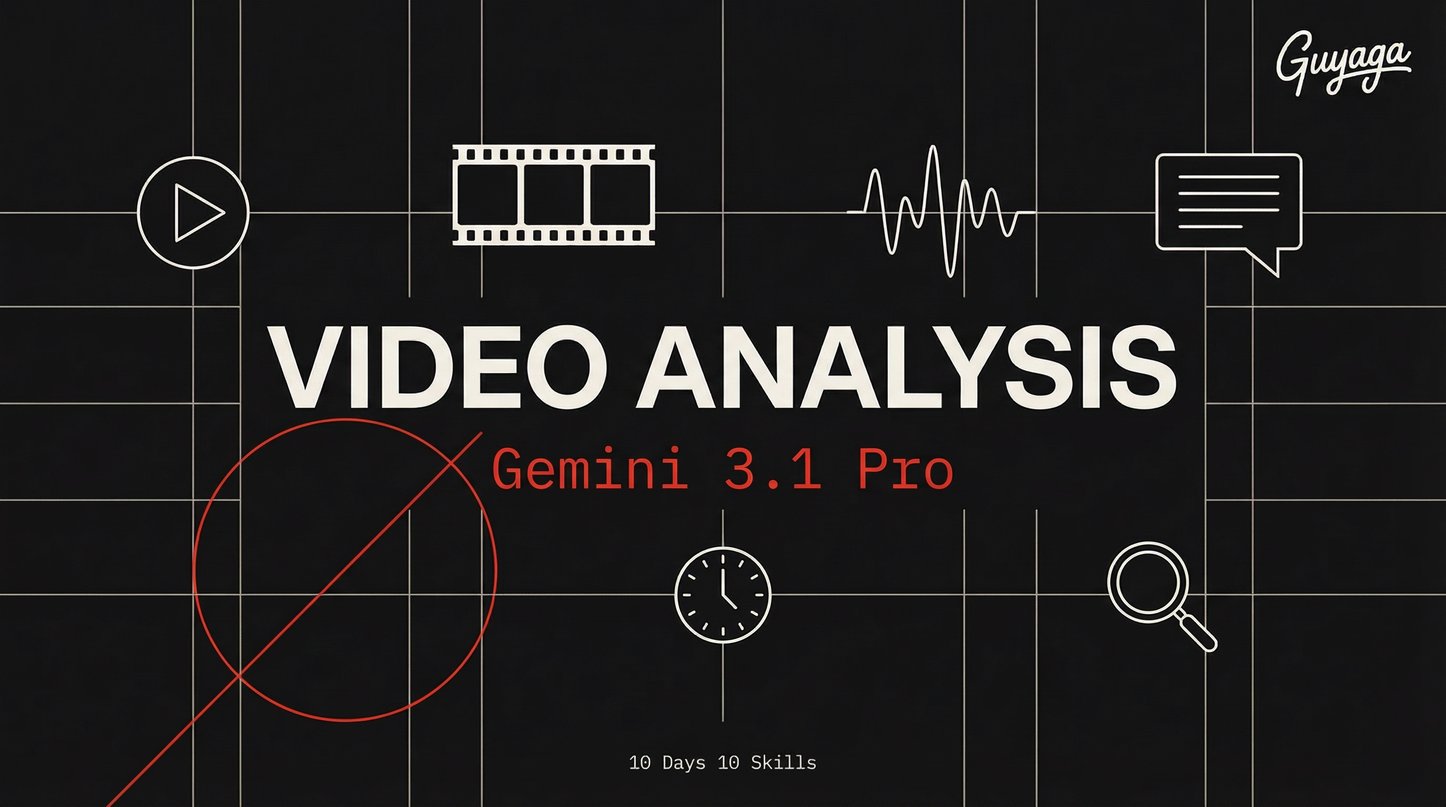
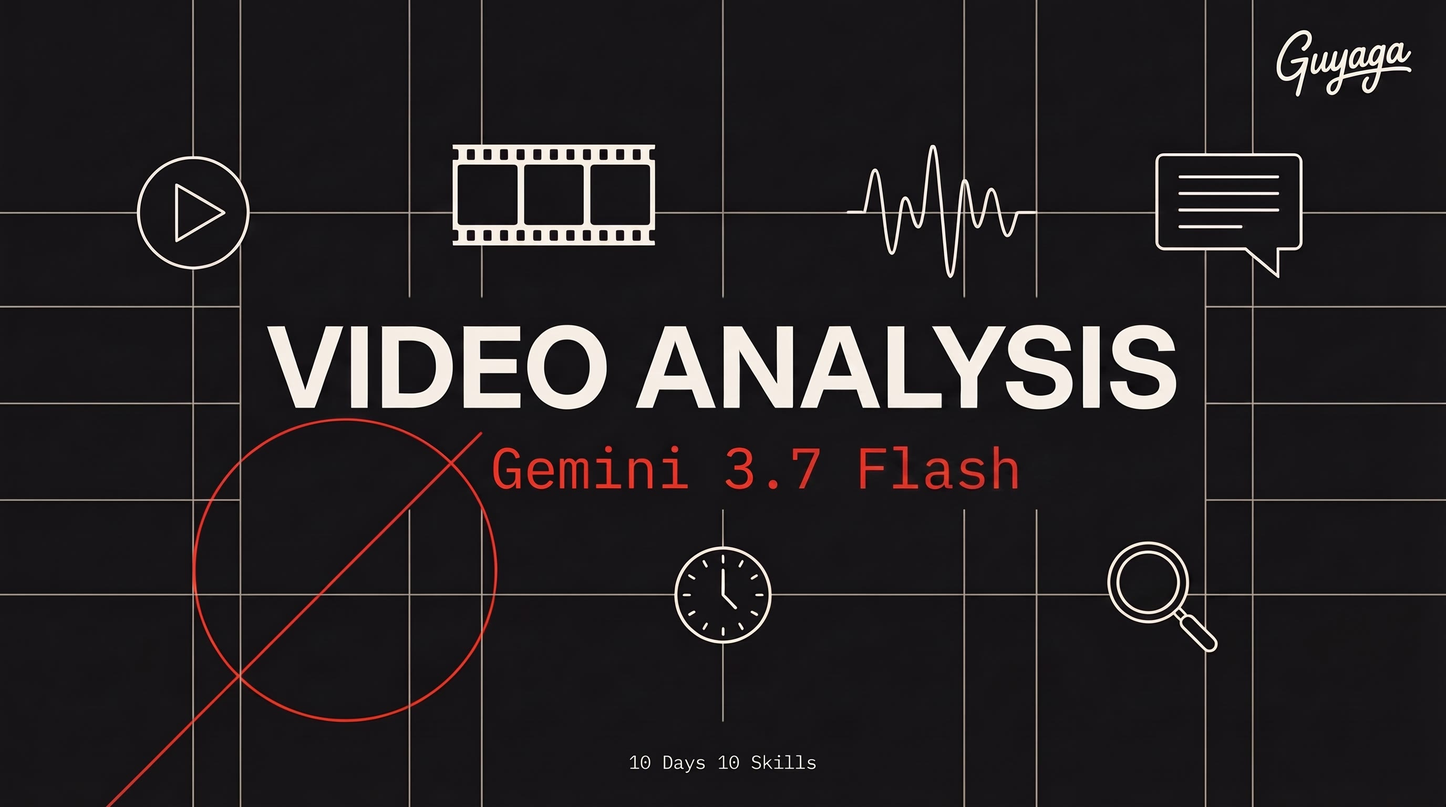
Switch default model to gemini-3.7-flash
Head-to-head tested (2026-09) against gemini-3.1-pro-preview on three
real videos: equal or better transcription and visual accuracy, 1.3-2.6x
faster, ~1/4 the price ($0.75/1M input through 2026). 3.1 Pro stays
documented as fallback for frame-accurate edit prep.

Also fixes the mediaResolution example: the API expects the
MEDIA_RESOLUTION_LOW enum, 'low' returns HTTP 400. New cover to match.

Claude-Session: https://claude.ai/code/session_01EvkyKe9GKai4L7HsbcYKGE

Changed region(s): [[0.5938, 0.5312, 0.7188, 0.625], [0.5312, 0.5625, 0.5625, 0.625], [0.9062, 0.0625, 0.9375, 0.0938]]

diff --git a/SKILL.md b/SKILL.md
@@ -1,12 +1,14 @@
 ---
 name: ai-video-analyzer
-description: Analyze videos and audio using Gemini 3.1 Pro — frame-by-frame visual analysis, transcription with timestamps and emotions, scene breakdown, ad review, caption/subtitle generation, audio understanding, and content insights. Supports local files (File API), inline small files, YouTube URLs, and audio files. Use when the user wants to analyze a video, transcribe speech, understand video/audio content, extract scenes, review ads, generate captions/SRT, get ffmpeg commands, or needs to see/understand media content before processing it.
+description: Analyze videos and audio using Gemini 3.7 Flash — frame-by-frame visual analysis, transcription with timestamps and emotions, scene breakdown, ad review, caption/subtitle generation, audio understanding, and content insights. Supports local files (File API), inline small files, YouTube URLs, and audio files. Use when the user wants to analyze a video, transcribe speech, understand video/audio content, extract scenes, review ads, generate captions/SRT, get ffmpeg commands, or needs to see/understand media content before processing it.
 allowed-tools: Read, Write, Edit, Bash, Glob
 ---
 
-# AI Video Analyzer (Gemini 3.1 Pro)
+# AI Video Analyzer (Gemini 3.7 Flash)
 
 Analyze any video or audio with AI — get transcriptions, scene breakdowns, content analysis, captions, and actionable insights.
+
+> **Default model: `gemini-3.7-flash`.** In head-to-head tests (2026-09) it matched or beat Gemini 3.1 Pro on transcription and visual accuracy at 1.3–2.6× the speed, at about a quarter of the price. Fall back to `gemini-3.1-pro-preview` only when you need maximum temporal granularity (e.g. frame-accurate edit prep on dense footage).
 
 ## Setup
 
@@ -69,7 +71,7 @@ if (file.state === "FAILED") throw new Error("Video processing failed");
 
 // Step 3: Analyze
 const response = await ai.models.generateContent({
-  model: "gemini-3.1-pro-preview",
+  model: "gemini-3.7-flash",
   contents: createUserContent([
     createPartFromUri(file.uri, file.mimeType),
     "Analyze this video in detail: scene-by-scene breakdown with timestamps, full transcription, and summary.",
@@ -85,7 +87,7 @@ await ai.files.delete({ name: file.name });
 
 ```javascript
 const response = await ai.models.generateContent({
-  model: "gemini-3.1-pro-preview",
+  model: "gemini-3.7-flash",
   contents: [
     { fileData: { fileUri: "https://www.youtube.com/watch?v=VIDEO_ID" } },
     { text: "Analyze this video: scene breakdown, transcription, and key insights." },
@@ -104,7 +106,7 @@ import * as fs from "node:fs";
 const base64Video = fs.readFileSync("short-clip.mp4", { encoding: "base64" });
 
 const response = await ai.models.generateContent({
-  model: "gemini-3.1-pro-preview",
+  model: "gemini-3.7-flash",
   contents: [
     { inlineData: { mimeType: "video/mp4", data: base64Video } },
     { text: "What happens in this video? Describe each scene with timestamps." },
@@ -129,7 +131,7 @@ while (file.state === "PROCESSING") {
 }
 
 const response = await ai.models.generateContent({
-  model: "gemini-3.1-pro-preview",
+  model: "gemini-3.7-flash",
   contents: createUserContent([
     createPartFromUri(file.uri, file.mimeType),
     "Transcribe this audio with timestamps. Detect language and speaker emotions.",
@@ -145,7 +147,7 @@ await ai.files.delete({ name: file.name });
 const base64Audio = fs.readFileSync("clip.mp3", { encoding: "base64" });
 
 const response = await ai.models.generateContent({
-  model: "gemini-3.1-pro-preview",
+  model: "gemini-3.7-flash",
   contents: [
     { inlineData: { mimeType: "audio/mp3", data: base64Audio } },
     { text: "Transcribe and summarize this audio." },
@@ -199,7 +201,7 @@ Always use `MM:SS` format:
 Force JSON response for programmatic use:
 ```javascript
 const response = await ai.models.generateContent({
-  model: "gemini-3.1-pro-preview",
+  model: "gemini-3.7-flash",
   contents: [...],
   config: {
     responseMimeType: "application/json",
@@ -332,8 +334,9 @@ Process this audio and generate a detailed transcription:
 
 **Save tokens on long videos:**
 ```javascript
-config: { mediaResolution: 'low' }
+config: { mediaResolution: 'MEDIA_RESOLUTION_LOW' }
 ```
+> The API enum is `MEDIA_RESOLUTION_LOW` / `MEDIA_RESOLUTION_MEDIUM` / `MEDIA_RESOLUTION_HIGH` — passing `'low'` returns HTTP 400 `Invalid value at generation_config.media_resolution`.
 
 ---
 

diff --git a/README.md b/README.md
@@ -1,5 +1,5 @@
 <p align="center">
-  <img src="cover.jpg" alt="AI Video Analyzer — Gemini 3.1 Pro" width="100%">
+  <img src="cover.jpg" alt="AI Video Analyzer — Gemini 3.7 Flash" width="100%">
 </p>
 
 <h1 align="center">Day 2 — AI Video Analyzer</h1>
@@ -7,7 +7,7 @@
   <strong>10 Days 10 Skills</strong> · Claude Code Course by <a href="https://bestguy.ai">Guy Aga</a>
 </p>
 <p align="center">
-  <img src="https://img.shields.io/badge/Service-Gemini%203.1%20Pro-E63B2E?style=flat-square" alt="Gemini 3.1 Pro">
+  <img src="https://img.shields.io/badge/Service-Gemini%203.7%20Flash-E63B2E?style=flat-square" alt="Gemini 3.7 Flash">
   <img src="https://img.shields.io/badge/Skill-ai--video--analyzer-111111?style=flat-square" alt="Skill">
   <img src="https://img.shields.io/badge/Level-Beginner-E8E4DD?style=flat-square&labelColor=111111" alt="Beginner">
 </p>
@@ -31,10 +31,11 @@ No video editing software needed. No technical knowledge required.
 - **"Analyze this podcast"** — transcribe and summarize audio recordings
 - **"What did they say at 1:23?"** — ask about specific moments
 
-### Why Gemini 3.1 Pro?
+### Why Gemini 3.7 Flash?
 
 | Feature | What It Means for You |
 |---------|----------------------|
+| **Fast & affordable** | Tested head-to-head against Gemini 3.1 Pro on real videos — equal or better analysis, 1.3–2.6× faster, ~¼ the price |
 | **Video + Audio** | Understands both what you see AND what you hear |
 | **1 million token context** | Can process videos up to 1 hour long |
 | **YouTube URLs** | Analyze any public YouTube video without downloading |
@@ -67,7 +68,7 @@ If you already did this in Day 1, skip to Step 2.
 2. Click **"Create API Key"**
 3. Copy your API key
 
-> **Pay-as-you-go pricing.** Set up a [Google Cloud billing profile](https://console.cloud.google.com/billing). Gemini 3.1 Pro costs ~$2-4 per 1M input tokens. Start with **$5-10 in credits** — that's plenty for learning.
+> **Pay-as-you-go pricing.** Set up a [Google Cloud billing profile](https://console.cloud.google.com/billing). Gemini 3.7 Flash costs $0.75 per 1M input tokens (through 2026, then $1.50). Start with **$5-10 in credits** — that's plenty for learning.
 
 ---
 
@@ -90,7 +91,7 @@ export GEMINI_API_KEY=your-api-key-here
 Open Claude Code and paste this:
 
 ```
-Install the ai-video-analyzer skill from https://github.com/guyaga/10d10s-day02-video-analyzer and set up everything I need to analyze videos with Gemini 3.1 Pro. Install the @google/genai SDK.
+Install the ai-video-analyzer skill from https://github.com/guyaga/10d10s-day02-video-analyzer and set up everything I need to analyze videos with Gemini 3.7 Flash. Install the @google/genai SDK.
 ```
 
 Claude handles everything — cloning, installing, configuring.
